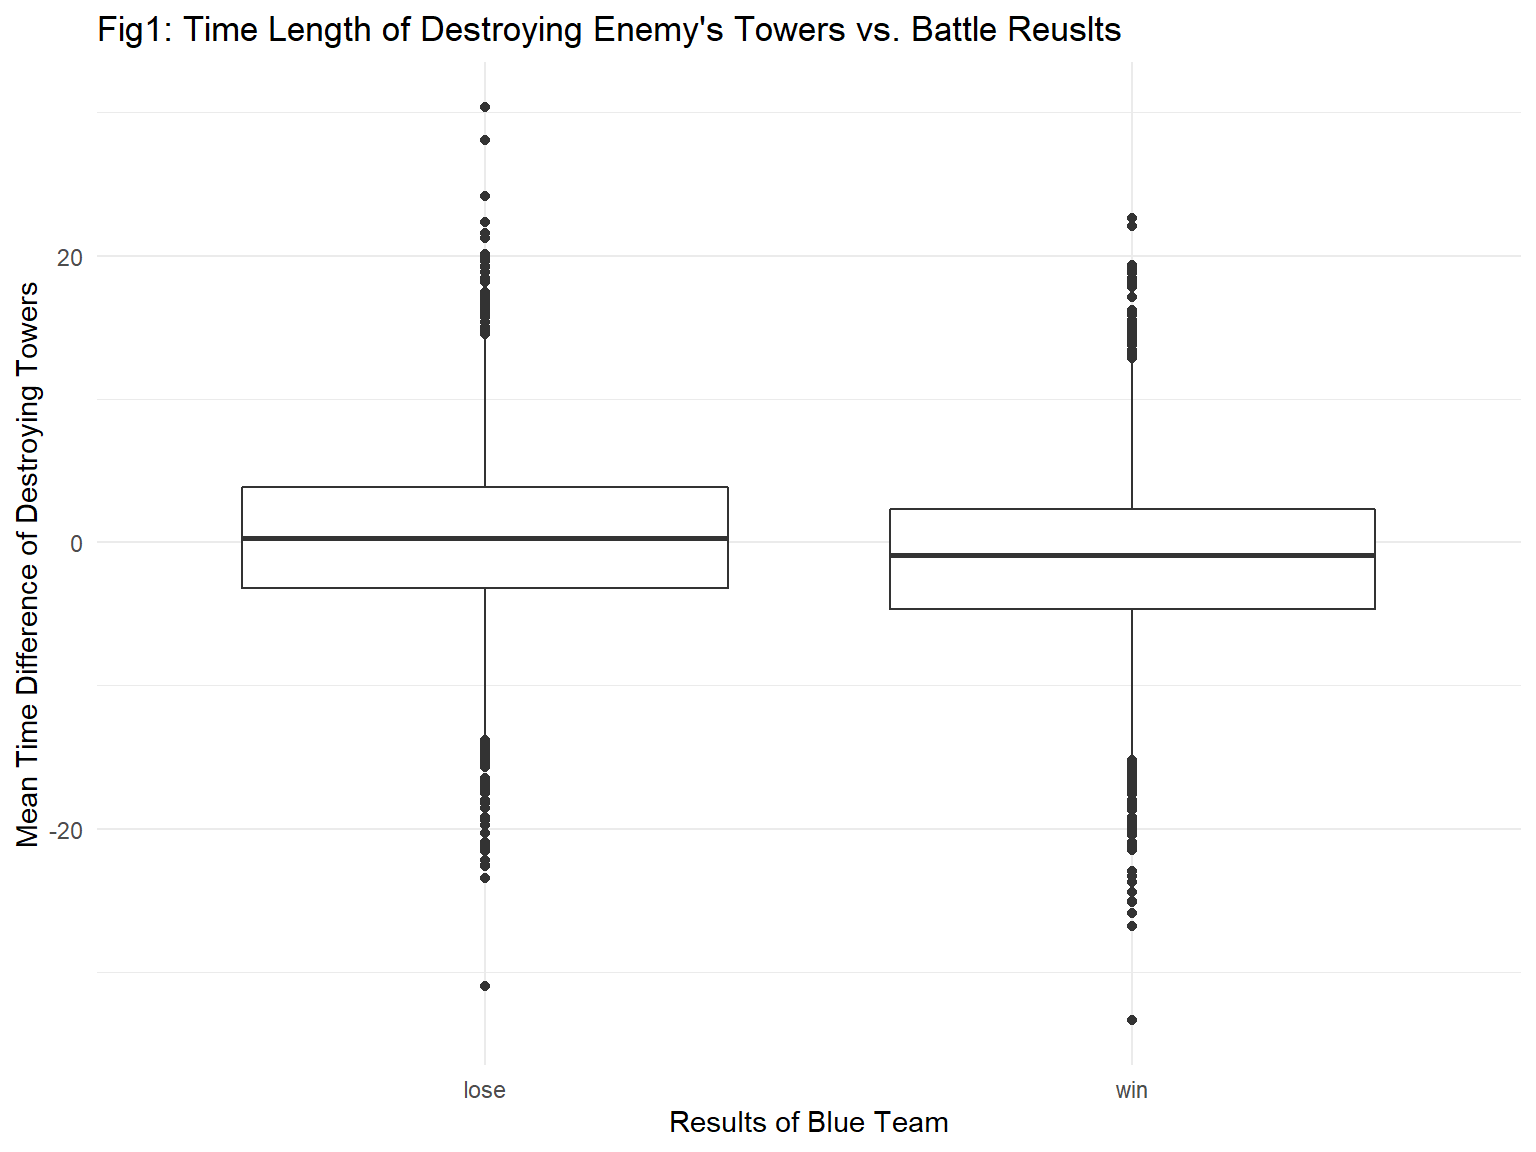
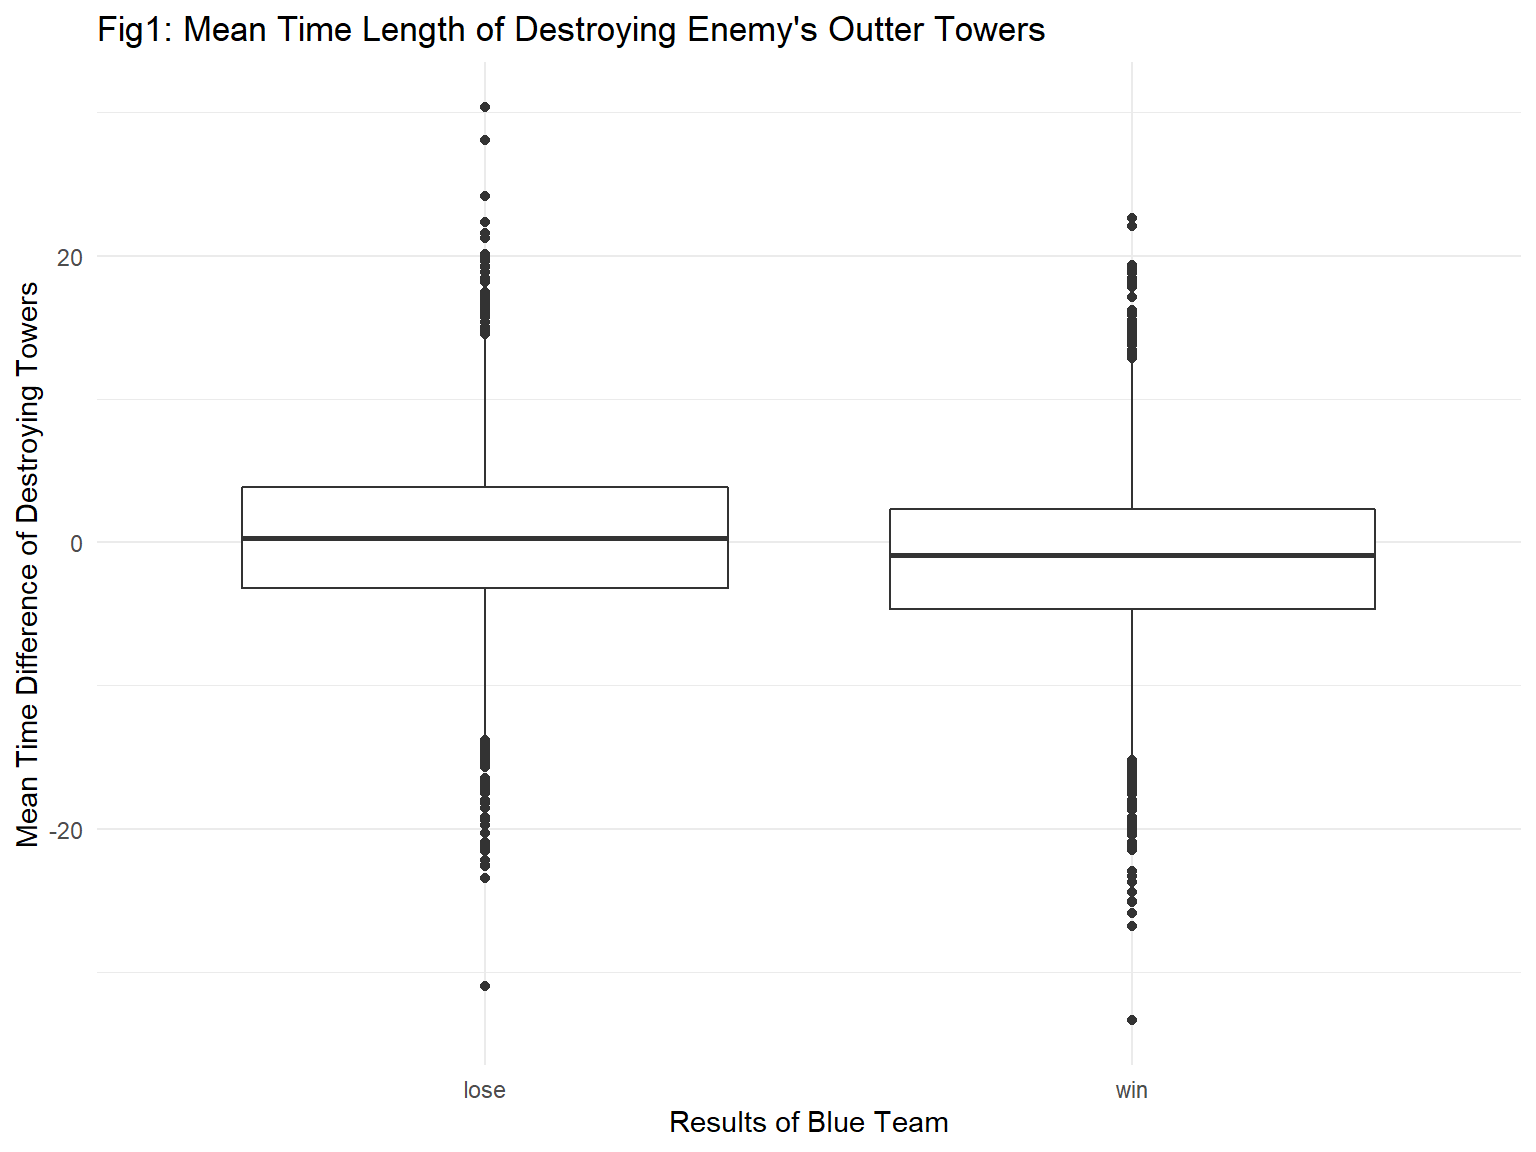
EDA fin

Changed region(s): [[0.125, 0.0, 0.7188, 0.0625]]

diff --git a/visualization.html b/visualization.html
@@ -425,26 +425,60 @@ merge_file %&gt;%
   ggplot(aes(x = b_result, y = outer_mean_diff)) + 
   geom_boxplot() +
   labs(
-    title = &quot;Fig1: Time Length of Destroying Enemy&#39;s Towers vs. Battle Reuslts&quot;, 
+    title = &quot;Fig1: Mean Time Length of Destroying Enemy&#39;s Outter Towers&quot;, 
     x = &quot;Results of Blue Team&quot;,
     y = &quot;Mean Time Difference of Destroying Towers&quot;
   )</code></pre>
 <p><img src="visualization_files/figure-html/unnamed-chunk-2-1.png" width="90%" /></p>
-<p>Variable outer_mean_diff represents the difference of average time destroying the enemy’s three outer towers between blue and red team (i.e. outer_mean_diff = average time blue team used - average time red team used). And vairable b_result, encoded as win versus lose, represents the battle results of the blue team. From the boxplot above, we expect that the blue team has a greater chance to win the game when the difference is negative, meaning the blue team takes less average time to destory the red team’s outer towers.</p>
+<p>Variable <em>outer_mean_diff</em> represents the difference of average time destroying the enemy’s three outer towers between blue and red team (i.e. <em>outer_mean_diff</em> = average time blue team used - average time red team used). And vairable <em>b_result</em>, encoded as win versus lose, represents the battle results of the blue team. From the boxplot above, we expect that the blue team has a greater chance to win the game when the <strong>difference is negative</strong>, meaning the blue team takes less average time to destory the red team’s outer towers.</p>
 </div>
 <div id="fig-2-team-economic-differences" class="section level2">
 <h2>Fig 2 Team Economic Differences</h2>
-<p><img src="gold_diff.png" /></p>
-<p>Variable golddiff_mean represents the average monetary difference in every minute during the game between blue and red team (blue-red). From the boxplot, we expect that the blue team has a greater chance to win when the team has more golds in average.</p>
+<pre class="r"><code>merge_file %&gt;% 
+  ggplot(aes(x = b_result, y = golddiff_mean)) + 
+  geom_boxplot() +
+  labs(
+    title = &quot;Fig2: Mean Golds Difference&quot;,
+    x = &quot;Results of Blue Team&quot;, 
+    y = &quot;Mean Gold Difference&quot;
+  )</code></pre>
+<p><img src="visualization_files/figure-html/unnamed-chunk-3-1.png" width="90%" /></p>
+<p>Variable <em>golddiff_mean</em> represents the average monetary difference in every minute during the game between blue and red team (blue-red). From the boxplot, we expect that the blue team has a greater chance to win when the team has <strong>more golds</strong> than red team in average.</p>
 </div>
 <div id="fig-3-neutrals-eliminated" class="section level2">
 <h2>Fig 3 Neutrals Eliminated</h2>
-<p><img src="monster_diff.png" /></p>
-<p>In this figure, we try to explore which neutral monsters have a higher effects in contributing to the battle results. The largest difference exists in the kills of baron_nashor.</p>
+<pre class="r"><code>merge_file %&gt;% 
+  janitor::clean_names() %&gt;% 
+  pivot_longer(
+    baron_nashor:fire_dragon,
+    names_to = &quot;neutral_monster&quot;,
+    values_to = &quot;number&quot;
+  ) %&gt;% 
+  group_by(b_result, neutral_monster) %&gt;% 
+  summarize(number = sum(number, na.rm = TRUE)) %&gt;% 
+  ggplot(aes(x = neutral_monster, y = number, fill = b_result)) + 
+  geom_bar(stat = &quot;identity&quot;, position = position_dodge()) + 
+  coord_flip() + 
+  labs(
+    title = &quot;Fig3: Numbers and Categories of Killing Neutral Monsters&quot;,
+    x = &quot;Numbers of Kills&quot;,
+    y = &quot;Categories of Neutral Monsters&quot;
+  )</code></pre>
+<p><img src="visualization_files/figure-html/unnamed-chunk-4-1.png" width="90%" /></p>
+<p>In this figure, we try to explore which neutral monsters have a higher effects in contributing to the battle results. The largest difference exists in the kills of <strong>Baron Nashor</strong>.</p>
 </div>
 <div id="fig-4-team-kills-differences" class="section level2">
 <h2>Fig 4 Team Kills Differences</h2>
-<p><img src="kills_diff.png" /></p>
+<pre class="r"><code>merge_file %&gt;%  
+  ggplot((aes(x = b_result,y = diff,group = b_result))) +
+  geom_boxplot() +
+  labs(
+    title = &quot;Fig4: Mean Killing Difference&quot;,
+    x = &quot;Results of Blue Team&quot;,
+    y = &quot;Mean Killing Difference&quot;
+  )</code></pre>
+<p><img src="visualization_files/figure-html/unnamed-chunk-5-1.png" width="90%" /></p>
+<p>Variable <em>diff</em> represents the average kill difference in every minute during the game between blue and red team (blue-red). From the boxplot, we expect that the blue team has a greater chance to win when the team has <strong>more kills</strong> than red team in average.</p>
 </div>
 
 
